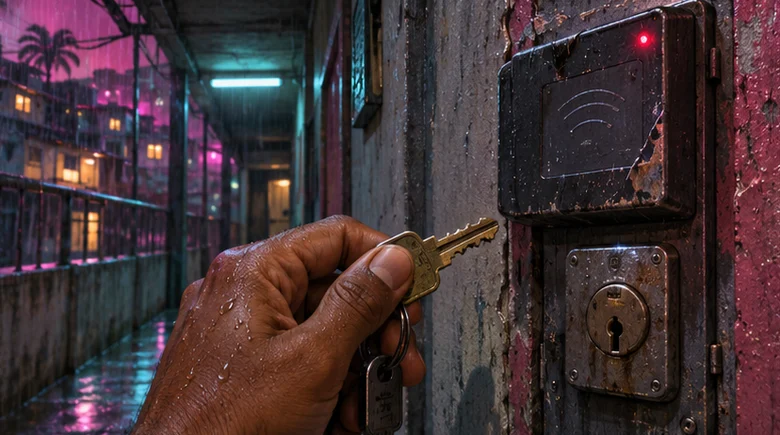
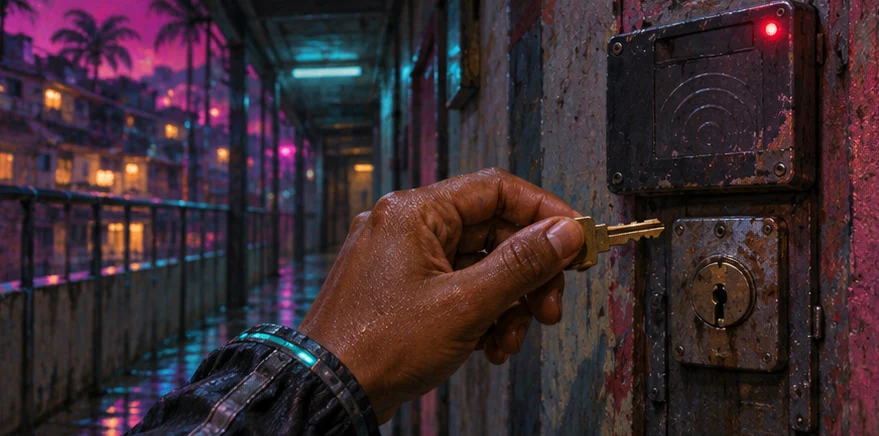
Preserve character continuity in comic illustrations

diff --git a/js/data/story.js b/js/data/story.js
@@ -292,7 +292,8 @@
     kiraPeace: [kiraReceipt, { speaker: 'kira', bubbleType: 'speech', expression: 'whisper' }],
     kiraProof: [kiraReceipt, { speaker: 'kira', bubbleType: 'speech' }],
     cipherToken: [opticalFilter],
-    cipherPeace: [{ ...opticalFilter, camera: 'focus-detail', focus: 'center', mood: 'tense' },
+    cipherPeace: [{ ...evidenceArt('filtro-na-muralha', 'O filtro instalado na Muralha'),
+      camera: 'focus-detail', focus: 'center', mood: 'tense' },
       { speaker: 'cipher', bubbleType: 'speech' }],
     vexAlt: [theatreProof],
     archonDeal: [

diff --git a/docs/plano-arte-webcomic.md b/docs/plano-arte-webcomic.md
@@ -13,3 +13,19 @@ A primeira entrega reaproveita as ilustrações do prólogo, o quarto de Kairo, 
 Para cada cenário, prefira uma composição horizontal com áreas de interesse em quadrantes distintos e espaço para o balão. Publique em WebP na área de assets existente. Associe cada arquivo ao quadro por `art` e, quando precisar de um título específico na Galeria, `artTitle`. Retratos principais e variantes de expressão entram em `comicPortraits`. Teste os enquadramentos numa tela de 320 px e com movimento reduzido.
 
 Reserve as onomatopeias para sons que pontuam a ação, como o leitor da porta e a interferência no rádio. Conversas, pensamentos e a revelação do recibo têm espaço para quadros silenciosos.
+
+## Continuidade visual obrigatória
+
+- Antes de gerar ou editar um quadro, identifique quem executa cada gesto e consulte o retrato e a cena aprovada mais recente daquela personagem. Use essas imagens como referência da edição, inclusive para closes sem rosto.
+- Mãos, braços e outras partes do corpo devem condizer com quem aparece ou age no roteiro. Preserve tom de pele sob luz neutra, idade aparente, proporções, formato do rosto, traços, marcas e próteses. Em cenas com várias personagens, deixe claro de quem é cada gesto pela ligação da mão com o braço, pela manga ou pelo enquadramento.
+- Preserve cor, comprimento e penteado do cabelo, roupa e acessórios ao longo da mesma sequência. Mudanças de roupa ou cabelo pedem uma passagem de tempo ou uma ação indicada no roteiro. Mesmo com essas mudanças, mantenha a identidade do rosto e do corpo.
+- Antes de aprovar, compare o quadro com as referências lado a lado e revise o recorte que aparece no celular. Quando o mesmo objeto mudar de local ou de mãos, preserve seu desenho e mostre a nova situação.
+
+| Personagem | Referência aprovada |
+| --- | --- |
+| Kairo | [Retrato](../src/assets/kairo-token.webp) e [leitor da porta](../src/assets/comic/leitor-da-porta.webp). Mulher negra jovem. Preserve o tom de pele, a idade aparente e a manga escura do quadro ao mostrar sua mão. |
+| Íris | [Garagem](../src/assets/garagem-iris.webp) e [calibração](../src/assets/comic/filtro-optico.webp). Cabelo escuro encaracolado preso, pele morena e roupa de oficina verde-azulada sem mangas. |
+| Bia | [Conferência no Teatro](../src/assets/comic/conferencia-no-teatro.webp), à esquerda. Mulher jovem de pele morena, cabelo preto comprido e jaqueta ferrugem. Ela confere o papel. |
+| Helena | [Conferência no Teatro](../src/assets/comic/conferencia-no-teatro.webp), à direita. Mulher de meia-idade com pele oliva clara, cabelo escuro curto com grisalho nas têmporas e blazer azul-acinzentado. Ela segura a chave. |
+
+Na Muralha, Raquel conecta o mesmo filtro que Íris calibrou. O quadro da Muralha mostra [a peça encaixada no leitor](../src/assets/comic/filtro-na-muralha.webp).
